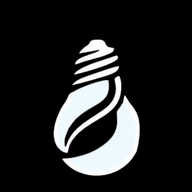
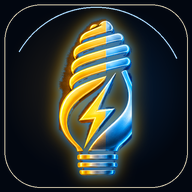
Add files via upload

diff --git a/templates/quote_print.html b/templates/quote_print.html
@@ -1,1 +1,1 @@
-<!doctype html><html lang="pt-BR"><head><meta charset="utf-8"><title>Orçamento #{{ quote.id }}</title><style>body{font-family:Arial,sans-serif;color:#111;margin:35px}header{display:flex;justify-content:space-between;border-bottom:3px solid #111;padding-bottom:15px;margin-bottom:20px}.logo{font-size:25px;font-weight:800}.brand-print-logo{width:250px;max-height:88px;object-fit:contain;object-position:left center;display:block}.bolt{color:#e6b800}.meta{text-align:right;color:#555}.box{border:1px solid #bbb;border-radius:10px;padding:14px;margin:12px 0}table{width:100%;border-collapse:collapse}th,td{padding:10px;border-bottom:1px solid #ddd;text-align:left}.right{text-align:right}.total{font-size:23px;font-weight:bold}.muted{color:#666}.no-print{margin-bottom:20px}@media print{.no-print{display:none}body{margin:15mm}}</style></head><body><div class="no-print"><button onclick="window.print()">Imprimir / Salvar PDF</button></div><header><div><div class="logo"><img class="brand-print-logo" src="{{ url_for('static', filename='brand-logo.png') }}" alt="{{ app_settings.business_name }}"></div><div class="muted">{{ app_settings.phone }}{% if app_settings.city %} · {{ app_settings.city }}{% endif %}</div></div><div class="meta"><strong>ORÇAMENTO #{{ quote.id }}</strong><br>{{ quote.quote_date|datebr }}{% if quote.valid_until %}<br>Válido até {{ quote.valid_until|datebr }}{% endif %}</div></header><div class="box"><strong>Cliente</strong><br>{{ quote.customer_name }}<br>{{ quote.customer_phone }}<br>{{ quote.customer_address }}{% if quote.customer_city %}<br>{{ quote.customer_city }}{% endif %}</div><div class="box"><h2>{{ quote.title }}</h2>{{ quote.description or '' }}</div><div class="box"><table><thead><tr><th>Descrição</th><th>Qtd.</th><th class="right">Unitário</th><th class="right">Subtotal</th></tr></thead><tbody>{% for i in quote.items %}<tr><td>{{ i.description }}</td><td>{{ i.qty }} {{ i.unit }}</td><td class="right">{{ i.unit_price|money }}</td><td class="right">{{ i.subtotal|money }}</td></tr>{% endfor %}</tbody><tfoot><tr><td colspan="3">Serviços</td><td class="right">{{ quote.labor_value|money }}</td></tr><tr><td colspan="3">Materiais</td><td class="right">{{ quote.material_value|money }}</td></tr><tr><td colspan="3">Desconto</td><td class="right">- {{ quote.discount|money }}</td></tr><tr><td colspan="3"><strong>Total</strong></td><td class="right total">{{ quote.total_value|money }}</td></tr></tfoot></table></div>{% if quote.notes %}<div class="box"><strong>Condições / observações</strong><br>{{ quote.notes }}</div>{% endif %}{% if app_settings.pix_key %}<div class="box"><strong>Pix:</strong> {{ app_settings.pix_key }}</div>{% endif %}<p class="muted" style="text-align:center;margin-top:30px">{{ app_settings.footer_text }}</p></body></html>
+<!doctype html><html lang="pt-BR"><head><meta charset="utf-8"><title>Orçamento #{{ quote.id }}</title><style>body{font-family:Arial,sans-serif;color:#111;margin:35px}header{display:flex;justify-content:space-between;border-bottom:3px solid #111;padding-bottom:15px;margin-bottom:20px}.logo{font-size:25px;font-weight:800}.brand-print-logo{width:295px;max-height:96px;object-fit:contain;object-position:left center;display:block;filter:drop-shadow(0 2px 2px rgba(0,0,0,.26))}.bolt{color:#e6b800}.meta{text-align:right;color:#555}.box{border:1px solid #bbb;border-radius:10px;padding:14px;margin:12px 0}table{width:100%;border-collapse:collapse}th,td{padding:10px;border-bottom:1px solid #ddd;text-align:left}.right{text-align:right}.total{font-size:23px;font-weight:bold}.muted{color:#666}.no-print{margin-bottom:20px}@media print{.no-print{display:none}body{margin:15mm}}</style></head><body><div class="no-print"><button onclick="window.print()">Imprimir / Salvar PDF</button></div><header><div><div class="logo"><img class="brand-print-logo" src="{{ url_for('static', filename='brand-logo.png') }}" alt="{{ app_settings.business_name }}"></div><div class="muted">{{ app_settings.phone }}{% if app_settings.city %} · {{ app_settings.city }}{% endif %}</div></div><div class="meta"><strong>ORÇAMENTO #{{ quote.id }}</strong><br>{{ quote.quote_date|datebr }}{% if quote.valid_until %}<br>Válido até {{ quote.valid_until|datebr }}{% endif %}</div></header><div class="box"><strong>Cliente</strong><br>{{ quote.customer_name }}<br>{{ quote.customer_phone }}<br>{{ quote.customer_address }}{% if quote.customer_city %}<br>{{ quote.customer_city }}{% endif %}</div><div class="box"><h2>{{ quote.title }}</h2>{{ quote.description or '' }}</div><div class="box"><table><thead><tr><th>Descrição</th><th>Qtd.</th><th class="right">Unitário</th><th class="right">Subtotal</th></tr></thead><tbody>{% for i in quote.items %}<tr><td>{{ i.description }}</td><td>{{ i.qty }} {{ i.unit }}</td><td class="right">{{ i.unit_price|money }}</td><td class="right">{{ i.subtotal|money }}</td></tr>{% endfor %}</tbody><tfoot><tr><td colspan="3">Serviços</td><td class="right">{{ quote.labor_value|money }}</td></tr><tr><td colspan="3">Materiais</td><td class="right">{{ quote.material_value|money }}</td></tr><tr><td colspan="3">Desconto</td><td class="right">- {{ quote.discount|money }}</td></tr><tr><td colspan="3"><strong>Total</strong></td><td class="right total">{{ quote.total_value|money }}</td></tr></tfoot></table></div>{% if quote.notes %}<div class="box"><strong>Condições / observações</strong><br>{{ quote.notes }}</div>{% endif %}{% if app_settings.pix_key %}<div class="box"><strong>Pix:</strong> {{ app_settings.pix_key }}</div>{% endif %}<p class="muted" style="text-align:center;margin-top:30px">{{ app_settings.footer_text }}</p></body></html>

diff --git a/templates/service_print.html b/templates/service_print.html
@@ -1,4 +1,4 @@
-<!doctype html><html lang="pt-BR"><head><meta charset="utf-8"><title>OS #{{ service.id }}</title><style>body{font-family:Arial,sans-serif;color:#111;margin:35px}header{display:flex;justify-content:space-between;border-bottom:3px solid #111;padding-bottom:15px;margin-bottom:20px}.logo{font-size:25px;font-weight:800}.brand-print-logo{width:250px;max-height:88px;object-fit:contain;object-position:left center;display:block}.bolt{color:#e6b800}.meta{text-align:right;color:#555}.box{border:1px solid #bbb;border-radius:10px;padding:14px;margin:12px 0}.grid{display:grid;grid-template-columns:1fr 1fr;gap:12px}table{width:100%;border-collapse:collapse;margin-top:10px}th,td{padding:9px;border-bottom:1px solid #ddd;text-align:left}.right{text-align:right}.total{font-size:22px;font-weight:bold}.muted{color:#666}.sign{display:grid;grid-template-columns:1fr 1fr;gap:50px;margin-top:70px}.sign div{border-top:1px solid #333;padding-top:6px;text-align:center}.no-print{margin-bottom:20px}@media print{.no-print{display:none}body{margin:15mm}}</style></head><body><div class="no-print"><button onclick="window.print()">Imprimir / Salvar PDF</button></div><header><div><div class="logo"><img class="brand-print-logo" src="{{ url_for('static', filename='brand-logo.png') }}" alt="{{ app_settings.business_name }}"></div><div class="muted">{{ app_settings.phone }}{% if app_settings.city %} · {{ app_settings.city }}{% endif %}</div></div><div class="meta"><strong>ORDEM DE SERVIÇO #{{ service.id }}</strong><br>{{ service.service_date|datebr }}</div></header>
+<!doctype html><html lang="pt-BR"><head><meta charset="utf-8"><title>OS #{{ service.id }}</title><style>body{font-family:Arial,sans-serif;color:#111;margin:35px}header{display:flex;justify-content:space-between;border-bottom:3px solid #111;padding-bottom:15px;margin-bottom:20px}.logo{font-size:25px;font-weight:800}.brand-print-logo{width:295px;max-height:96px;object-fit:contain;object-position:left center;display:block;filter:drop-shadow(0 2px 2px rgba(0,0,0,.26))}.bolt{color:#e6b800}.meta{text-align:right;color:#555}.box{border:1px solid #bbb;border-radius:10px;padding:14px;margin:12px 0}.grid{display:grid;grid-template-columns:1fr 1fr;gap:12px}table{width:100%;border-collapse:collapse;margin-top:10px}th,td{padding:9px;border-bottom:1px solid #ddd;text-align:left}.right{text-align:right}.total{font-size:22px;font-weight:bold}.muted{color:#666}.sign{display:grid;grid-template-columns:1fr 1fr;gap:50px;margin-top:70px}.sign div{border-top:1px solid #333;padding-top:6px;text-align:center}.no-print{margin-bottom:20px}@media print{.no-print{display:none}body{margin:15mm}}</style></head><body><div class="no-print"><button onclick="window.print()">Imprimir / Salvar PDF</button></div><header><div><div class="logo"><img class="brand-print-logo" src="{{ url_for('static', filename='brand-logo.png') }}" alt="{{ app_settings.business_name }}"></div><div class="muted">{{ app_settings.phone }}{% if app_settings.city %} · {{ app_settings.city }}{% endif %}</div></div><div class="meta"><strong>ORDEM DE SERVIÇO #{{ service.id }}</strong><br>{{ service.service_date|datebr }}</div></header>
 <div class="grid"><div class="box"><strong>Cliente</strong><br>{{ service.client.name }}<br>{{ service.client.phone }}<br>{{ service.client.cpf_cnpj }}</div><div class="box"><strong>Local do serviço</strong><br>{{ service.address or service.client.address }}<br>{% if service.all_day %}Sem horário definido{% else %}Horário: {{ service.service_time|timebr }}{% endif %}</div></div>
 <div class="box"><strong>Serviço</strong><h2>{{ service.title }}</h2><div>{{ service.description or 'Sem descrição.' }}</div></div>
 {% if service.service_materials %}<div class="box"><strong>Materiais</strong><table><thead><tr><th>Item</th><th>Qtd.</th><th class="right">Unit.</th><th class="right">Subtotal</th></tr></thead><tbody>{% for i in service.service_materials %}<tr><td>{{ i.description }}</td><td>{{ i.qty }} {{ i.unit }}</td><td class="right">{{ i.unit_price|money }}</td><td class="right">{{ i.subtotal|money }}</td></tr>{% endfor %}</tbody></table></div>{% endif %}

diff --git a/static/style.css b/static/style.css
@@ -187,3 +187,53 @@
   .quote-main-actions{grid-template-columns:1fr}
   .table td[data-label="Ações"] .actions{grid-template-columns:1fr 1fr}
 }
+
+
+/* ===== Logo premium sem fundo · 27/08/2026 ===== */
+.brand-logo-wrap{
+  gap:7px;
+  padding:4px 4px 18px;
+}
+.brand-logo-img{
+  width:100%;
+  max-width:222px;
+  height:auto;
+  object-fit:contain;
+  object-position:left center;
+  filter:drop-shadow(0 5px 9px rgba(0,0,0,.28)) drop-shadow(-2px 0 7px rgba(255,183,0,.10)) drop-shadow(2px 0 7px rgba(0,157,255,.12));
+}
+.brand-logo-wrap small{
+  color:#8190a9;
+  font-size:10px;
+  letter-spacing:.06em;
+  text-transform:uppercase;
+  padding-left:3px;
+}
+.auth-brand-logo{
+  width:min(390px,100%);
+  max-height:none;
+  margin:0 auto 20px;
+  object-position:center;
+  filter:drop-shadow(0 8px 16px rgba(0,0,0,.32)) drop-shadow(-2px 0 10px rgba(255,183,0,.11)) drop-shadow(2px 0 10px rgba(0,157,255,.12));
+}
+.topbar-left{display:flex;align-items:center;gap:10px}
+.topbar-brand-icon{
+  display:none;
+  width:42px;
+  height:42px;
+  border-radius:13px;
+  object-fit:cover;
+  box-shadow:0 5px 18px rgba(0,0,0,.24),0 0 0 1px rgba(255,255,255,.05);
+}
+@media(max-width:760px){
+  .brand-logo-img{max-width:224px}
+  .topbar-brand-icon{display:block}
+  .topbar-left{gap:9px}
+  .topbar .hello{font-size:15px}
+  .topbar .date{font-size:12px}
+}
+@media(max-width:390px){
+  .topbar-brand-icon{width:38px;height:38px;border-radius:12px}
+  .topbar-left{gap:7px}
+  .topbar .hello{font-size:14px}
+}

diff --git a/templates/base.html b/templates/base.html
@@ -41,7 +41,7 @@
 <div class="sidebar-overlay no-print" onclick="closeSidebar()"></div>
 <main class="main">
 <header class="topbar no-print">
-  <div style="display:flex;align-items:center;gap:10px"><button class="btn sm menu-btn" onclick="toggleSidebar()">☰</button><div><div class="hello">Olá, {{ current_employee.name if is_employee and current_employee else (app_settings.owner_name or 'Guilherme') }} 👋</div><div class="date">{{ now.strftime('%d/%m/%Y') }}</div></div></div>
+  <div class="topbar-left"><button class="btn sm menu-btn" onclick="toggleSidebar()">☰</button><img class="topbar-brand-icon" src="{{ url_for('static', filename='icon-192.png') }}" alt=""><div><div class="hello">Olá, {{ current_employee.name if is_employee and current_employee else (app_settings.owner_name or 'Guilherme') }} 👋</div><div class="date">{{ now.strftime('%d/%m/%Y') }}</div></div></div>
   {% if not is_employee %}<div class="right-actions actions"><a class="btn sm" href="{{ url_for('client_new') }}">+ Cliente</a><a class="btn primary sm" href="{{ url_for('service_new') }}">+ Novo serviço</a></div>{% endif %}
 </header>
 <div class="content">

diff --git a/app.py b/app.py
@@ -2092,7 +2092,7 @@ def build_quote_pdf(quote):
         business_meta.append(str(settings.city))
     logo_path = os.path.join(BASE_DIR, "static", "brand-logo.png")
     if os.path.exists(logo_path):
-        logo = RLImage(logo_path, width=62 * mm, height=21.8 * mm)
+        logo = RLImage(logo_path, width=70 * mm, height=22.9 * mm)
         left = [
             logo,
             Paragraph(xml_escape(" · ".join(business_meta)), styles["QuoteSmall"]) if business_meta else Paragraph("", styles["QuoteSmall"]),

diff --git a/MELHORIAS_27-08-2026_LOGO.md b/MELHORIAS_27-08-2026_LOGO.md
@@ -1,0 +1,9 @@
+# Identidade visual - 27/08/2026
+
+- Logo Guilherme Elétrica e Climatização aplicada em PNG com transparência real, sem o retângulo preto.
+- Logo principal otimizada para a barra lateral, tela de login e primeiro acesso.
+- Ícone do aplicativo atualizado com a lâmpada metade energia (amarelo) e metade climatização (azul).
+- Ícone compacto exibido no topo da versão mobile para reforçar a identidade sem ocupar espaço.
+- Logo aplicada nas impressões de OS e orçamento com proporção corrigida.
+- Logo usada também no PDF gerado pelo sistema, com dimensões ajustadas para não deformar.
+- Sombras e brilho discretos no layout escuro, sem adicionar fundo sólido à imagem.
